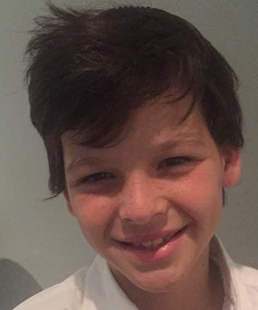
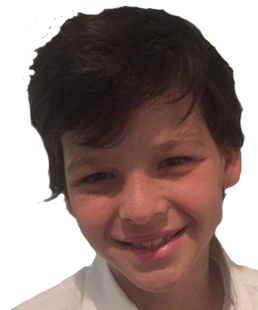
cambio fondo imagenes arbol

diff --git a/Inicio/Árbol/arbol.html b/Inicio/Árbol/arbol.html
@@ -24,34 +24,34 @@ body {
     ">
       <tbody>
         <tr>
-          <td width="166" align="center"><a href="https://danalevy.github.io/Escudos/Escudo%20Vivi/Escudo_Vivi.html"><img src="Foto Carnet Vivi.jpg" width="85" height="108" alt=""/></a></td>
-          <td width="158" align="center"><a href="https://danalevy.github.io/Escudos/Escudo%20mi%20hermano%20Arie/Escudo_mi_hermano_Arie.html"><img src="arie carnet.png" width="92" height="105" alt=""/></a></td>
+          <td width="166" align="center"><a href="https://danalevy.github.io/Escudos/Escudo%20Vivi/Escudo_Vivi.html"><img src="Foto Carnet Vivi.png" width="113" height="143" alt=""/></a></td>
+          <td width="158" align="center"><a href="https://danalevy.github.io/Escudos/Escudo%20mi%20hermano%20Arie/Escudo_mi_hermano_Arie.html"><img src="arie carnet.png" width="111" height="140" alt=""/></a></td>
           <td colspan="3">&nbsp;</td>
-          <td width="164" align="center"><a href="https://danalevy.github.io/Escudos/Escudo%20Analy/escudoanaly.html"><img src="Foto Carnet Analy.jpg" width="90" height="108" alt=""/></a></td>
-          <td width="169" align="center"><a href="https://danalevy.github.io/Escudos/Escudo%20Eli/escudoeli.html"><img src="eli carnet.png" width="100" height="113" alt=""/></a></td>
+          <td width="164" align="center"><a href="https://danalevy.github.io/Escudos/Escudo%20Analy/escudoanaly.html"><img src="Foto Carnet Analy.png" width="117" height="139" alt=""/></a></td>
+          <td width="169" align="center"><a href="https://danalevy.github.io/Escudos/Escudo%20Eli/escudoeli.html"><img src="eli carnet.png" width="130" height="139" alt=""/></a></td>
         </tr>
         <tr>
           <td>&nbsp;</td>
           <td style="text-align: center">&nbsp;</td>
-          <td colspan="3" style="text-align: center"><img src="dana carnet.jpg" width="133" height="133" alt=""/></td>
+          <td colspan="3" style="text-align: center"><img src="dana carnet.png" width="152" height="152" alt=""/></td>
           <td>&nbsp;</td>
           <td>&nbsp;</td>
         </tr>
         <tr>
           <td>&nbsp;</td>
-          <td align="center"><a href="https://link.com"><img src="Foto Carnet Papa.jpg" width="91" height="108" alt=""/></a></td>
+          <td align="center"><a href="https://link.com"><img src="Foto Carnet Papa.png" width="113" height="133" alt=""/></a></td>
           <td colspan="3">&nbsp;</td>
-          <td align="center"><a href="https://danalevy.github.io/Escudos/Escudo%20Mam%C3%A1/ESCUDO_MAMA_.html"><img src="Foto Carnet Mama.jpg" width="92" height="94" alt="" align="center"/></a></td>
+          <td align="center"><a href="https://danalevy.github.io/Escudos/Escudo%20Mam%C3%A1/ESCUDO_MAMA_.html"><img src="Foto Carnet Mama.png" width="126" height="127" alt="" align="center"/></a></td>
           <td>&nbsp;</td>
         </tr>
         <tr>
-          <td align="center"><img src="Foto Carnet Abuelo Nico.jpg" width="86" height="102" alt=""/></td>
+          <td align="center"><img src="Foto Carnet Abuelo Nico.png" width="117" height="138" alt=""/></td>
           <td>&nbsp;</td>
-          <td width="147" align="center"><a href="https://danalevy.github.io/Escudos/Escudo%20Abuela%20Sarina/escabuesarina.html"><img src="sarina carnet.jpg" width="80" height="101" alt=""/></a></td>
+          <td width="147" align="center"><a href="https://danalevy.github.io/Escudos/Escudo%20Abuela%20Sarina/escabuesarina.html"><img src="sarina carnet.png" width="103" height="128" alt=""/></a></td>
           <td width="5000">&nbsp;</td>
-          <td width="162"><img src="Foto Carnet Abuelo Arie.jpg" width="87" height="114" alt=""/></td>
+          <td width="162"><img src="Foto Carnet Abuelo Arie.png" width="105" height="137" alt=""/></td>
           <td>&nbsp;</td>
-          <td align="center"><img src="Foto Carnet Abuela Elena.jpg" width="87" height="106" alt=""/></td>
+          <td align="center"><img src="Foto Carnet Abuela Elena.png" width="117" height="142" alt=""/></td>
         </tr>
       </tbody>
     </table></td>
